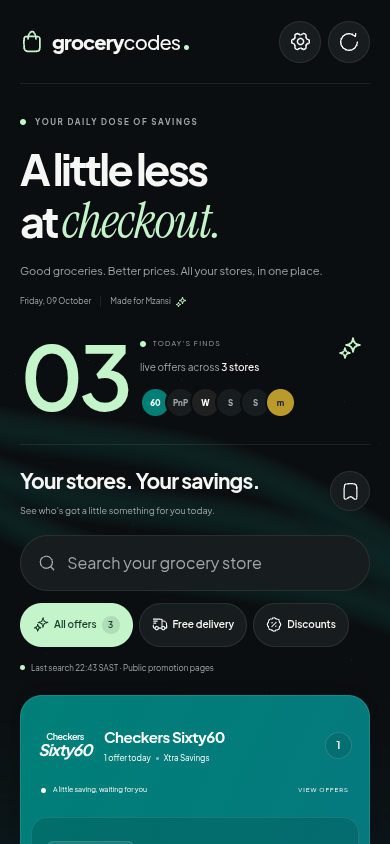
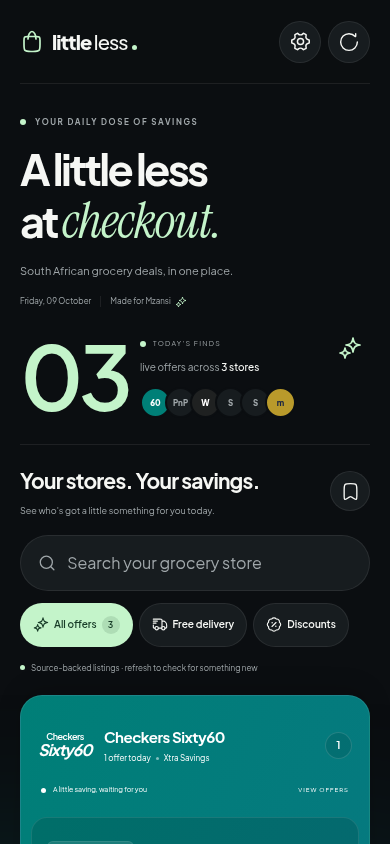
Brand the app as Little Less

diff --git a/src/components/grocery-app.tsx b/src/components/grocery-app.tsx
@@ -49,6 +49,8 @@ import { usePwa } from "@/components/pwa-provider";
 import { AppUpdateNotice } from "@/components/pwa-controls";
 import { useDialogHistory } from "@/components/use-dialog-history";
 import { parseOffers, saveOfflineOffers } from "@/lib/offline-store";
+import { brandDescriptor, brandTagline, brandWordmark } from "@/lib/brand";
+import { BrandWordmark } from "./brand-wordmark";
 
 function littleDelight() {
   window.dispatchEvent(new Event("grocery:delight"));
@@ -847,14 +849,11 @@ export function GroceryApp({
         />
       )}
       <header className="site-header shell">
-        <a className="brand" href="/" aria-label="grocerycodes home">
+        <a className="brand" href="/" aria-label="little less home">
           <span className="brand-icon">
             <Icon icon={ShoppingBasket01Icon} size={25} />
           </span>
-          <span>
-            grocery<span className="brand-light">codes</span>
-            <i />
-          </span>
+          <BrandWordmark />
         </a>
         <nav className="header-nav" aria-label="Main navigation">
           <button className={!savedOnly ? "current" : ""} onClick={() => setSavedOnly(false)}>
@@ -948,10 +947,7 @@ export function GroceryApp({
               <br />
               at <em>checkout.</em>
             </h1>
-            <p>
-              Good groceries. Better prices.
-              <br className="mobile-break" /> All your stores, in one place.
-            </p>
+            <p>{brandDescriptor}</p>
             <div className="hero-date">
               <span>{date}</span>
               <span className="date-divider" />
@@ -1233,12 +1229,12 @@ export function GroceryApp({
         </section>
         <footer className="site-footer">
           <a className="footer-brand" href="/">
-            grocerycodes
+            {brandWordmark}
             <span>
               <Icon icon={SparklesIcon} size={15} />
             </span>
           </a>
-          <p>A little less at checkout. A little more for you.</p>
+          <p>{brandTagline} A little more for you.</p>
           <nav className="footer-links" aria-label="Information">
             <a href="/stores">All stores</a>
             <a href="/about">How we find offers</a>

diff --git a/tests/e2e/production.spec.ts b/tests/e2e/production.spec.ts
@@ -6,6 +6,15 @@ const origin = "https://grocery.example";
 
 test("serves canonical metadata, social cards and honest structured data", async ({ page }) => {
   await page.goto("/?design=orbit&filter=discount");
+  await expect(page).toHaveTitle("Little Less — South African grocery coupons & free delivery");
+  await expect(page.locator('meta[name="application-name"]')).toHaveAttribute(
+    "content",
+    "Little Less",
+  );
+  await expect(page.locator('meta[name="apple-mobile-web-app-title"]')).toHaveAttribute(
+    "content",
+    "Little Less",
+  );
   await expect(page.locator('link[rel="canonical"]')).toHaveAttribute("href", origin);
   await expect(page.locator('meta[property="og:url"]')).toHaveAttribute("content", origin);
   await expect(page.locator('meta[property="og:image"]')).toHaveAttribute(
@@ -24,6 +33,7 @@ test("serves canonical metadata, social cards and honest structured data", async
     "WebSite",
     "WebApplication",
   ]);
+  expect(data["@graph"].every((item: { name: string }) => item.name === "Little Less")).toBe(true);
   expect(JSON.stringify(data)).not.toMatch(/aggregateRating|priceValidUntil|SearchAction/);
 });
 

diff --git a/src/app/about/page.tsx b/src/app/about/page.tsx
@@ -1,10 +1,10 @@
 import { ContentShell } from "@/components/content-shell";
-import { pageMetadata } from "@/lib/site";
+import { pageMetadata, siteName } from "@/lib/site";
 export const dynamic = "force-dynamic";
 export const generateMetadata = () =>
   pageMetadata(
     "How we find and check grocery promotions",
-    "Learn how Grocery Codes SA reviews public sources, checks expiry dates and labels online grocery coupons, delivery offers and membership benefits.",
+    `Learn how ${siteName} reviews public sources, checks expiry dates and labels online grocery coupons, delivery offers and membership benefits.`,
     "/about",
   );
 export default function AboutPage() {
@@ -17,7 +17,7 @@ export default function AboutPage() {
         <em>Clear details.</em>
       </h1>
       <p className="content-intro">
-        Grocery Codes SA is an independent tool for finding South African online grocery promotions.
+        {siteName} is an independent tool for finding South African online grocery promotions.
         Retailers own their names and marks. We are not affiliated with them and use no affiliate
         links.
       </p>

diff --git a/src/app/layout.tsx b/src/app/layout.tsx
@@ -1,22 +1,22 @@
 import type { Metadata, Viewport } from "next";
 import { Providers } from "@/components/providers";
 import { appearanceBootstrap, appearanceCriticalCss, appearanceNoScript } from "@/lib/appearance";
-import { pageMetadata, siteDescription } from "@/lib/site";
+import { pageMetadata, siteDescription, siteName } from "@/lib/site";
 import "./globals.css";
 
 export function generateMetadata(): Metadata {
   return {
     ...pageMetadata(
-      "Grocery Codes SA — South African grocery coupons & free delivery",
+      `${siteName} — South African grocery coupons & free delivery`,
       siteDescription,
       "/",
     ),
-    applicationName: "Grocery Codes SA",
+    applicationName: siteName,
     icons: {
       icon: "/icon.svg",
       apple: [{ url: "/icons/apple-touch-icon.png", sizes: "180x180", type: "image/png" }],
     },
-    appleWebApp: { capable: true, statusBarStyle: "black-translucent", title: "Grocery codes" },
+    appleWebApp: { capable: true, statusBarStyle: "black-translucent", title: siteName },
   };
 }
 

diff --git a/src/app/stores/[storeId]/page.tsx b/src/app/stores/[storeId]/page.tsx
@@ -3,7 +3,7 @@ import { ContentShell } from "@/components/content-shell";
 import { StructuredData } from "@/components/structured-data";
 import { Icon } from "@/components/icon";
 import { ArrowUpRight01Icon } from "@hugeicons/core-free-icons";
-import { pageMetadata, siteConfig } from "@/lib/site";
+import { pageMetadata, siteConfig, siteName } from "@/lib/site";
 import { getStore } from "@/lib/stores";
 import { storeContent } from "@/lib/store-content";
 import { filterOffers } from "@/lib/offers";
@@ -44,7 +44,7 @@ export default async function StorePage({ params }: Props) {
             "@context": "https://schema.org",
             "@type": "BreadcrumbList",
             itemListElement: [
-              { "@type": "ListItem", position: 1, name: "Grocery Codes SA", item: origin },
+              { "@type": "ListItem", position: 1, name: siteName, item: origin },
               { "@type": "ListItem", position: 2, name: "Stores", item: `${origin}/stores` },
               {
                 "@type": "ListItem",

diff --git a/src/app/llms.txt/route.ts b/src/app/llms.txt/route.ts
@@ -1,10 +1,10 @@
-import { siteConfig } from "@/lib/site";
+import { siteConfig, siteName } from "@/lib/site";
 export async function GET() {
   const { origin } = siteConfig();
   const link = (path: string) => (origin ? `${origin}${path}` : path);
   return new Response(
     [
-      "# Grocery Codes SA",
+      `# ${siteName}`,
       "",
       "> An independent app for source-listed South African online grocery promotions, coupon codes and delivery benefits.",
       "",
@@ -17,7 +17,7 @@ export async function GET() {
       `- [Privacy](${link("/privacy")}): Device storage, reports and service providers.`,
       "",
       "## App",
-      `- [Grocery Codes SA](${link("/")}): Search, filter, copy, bookmark and install the app.`,
+      `- [${siteName}](${link("/")}): Search, filter, copy, bookmark and install the app.`,
       "",
       "This file is a discovery hint, not an instruction to bypass robots.txt or source restrictions. It contains no private data or API credentials.",
       "",

diff --git a/src/components/content-shell.tsx b/src/components/content-shell.tsx
@@ -1,6 +1,11 @@
 import type { ReactNode } from "react";
-import { ArrowLeft01Icon, ArrowUpRight01Icon, ShoppingBag01Icon } from "@hugeicons/core-free-icons";
+import {
+  ArrowLeft01Icon,
+  ArrowUpRight01Icon,
+  ShoppingBasket01Icon,
+} from "@hugeicons/core-free-icons";
 import { Icon } from "./icon";
+import { BrandWordmark } from "./brand-wordmark";
 
 export function ContentShell({ children }: { children: ReactNode }) {
   return (
@@ -10,7 +15,7 @@ export function ContentShell({ children }: { children: ReactNode }) {
       </a>
       <header className="content-header">
         <a href="/" className="content-brand">
-          <Icon icon={ShoppingBag01Icon} size={23} /> grocerycodes<span>.</span>
+          <Icon icon={ShoppingBasket01Icon} size={23} /> <BrandWordmark />
         </a>
         <a href="/" className="content-back">
           <Icon icon={ArrowLeft01Icon} size={17} /> Back to offers

diff --git a/src/lib/site.ts b/src/lib/site.ts
@@ -1,7 +1,8 @@
 import type { Metadata } from "next";
 import { stores } from "./stores";
+import { brandName, brandTagline } from "./brand";
 
-export const siteName = "Grocery Codes SA";
+export const siteName = brandName;
 export const siteDescription =
   "Find South African grocery coupon codes, free delivery and discounts. Read qualifying terms and expiry dates for Checkers, Pick n Pay, Woolworths, Shoprite, SPAR and Makro.";
 
@@ -67,7 +68,7 @@ export function pageMetadata(title: string, description: string, pathname: strin
                 url: `${origin}/share-image`,
                 width: 1200,
                 height: 630,
-                alt: "Grocery Codes SA — A little less at checkout",
+                alt: `${siteName} — ${brandTagline}`,
               },
             ],
           }

diff --git a/src/app/manifest.webmanifest/route.ts b/src/app/manifest.webmanifest/route.ts
@@ -1,14 +1,15 @@
 import type { MetadataRoute } from "next";
 import { appearanceBackground } from "@/lib/appearance";
+import { brandName, brandTagline, brandDescriptor } from "@/lib/brand";
 
 export function GET(request: Request) {
   const { searchParams } = new URL(request.url);
   const background = appearanceBackground(searchParams.get("theme"), searchParams.get("design"));
   const manifest: MetadataRoute.Manifest = {
     id: "/",
-    name: "Grocery Codes SA",
-    short_name: "Grocery codes",
-    description: "A little less at checkout. Today's South African grocery promotions.",
+    name: brandName,
+    short_name: brandName,
+    description: `${brandTagline} ${brandDescriptor}`,
     start_url: "/",
     scope: "/",
     display: "standalone",

diff --git a/src/components/loading-shell.tsx b/src/components/loading-shell.tsx
@@ -1,10 +1,17 @@
+import { ShoppingBasket01Icon } from "@hugeicons/core-free-icons";
+import { BrandWordmark } from "./brand-wordmark";
+import { Icon } from "./icon";
+
 export default function Loading() {
   return (
     <main className="loading-page" aria-busy="true" aria-label="Loading grocery promotions">
       <div className="shell">
         <header className="site-header">
           <span className="brand">
-            grocery<span className="brand-light">codes</span>
+            <span className="brand-icon">
+              <Icon icon={ShoppingBasket01Icon} size={25} />
+            </span>
+            <BrandWordmark />
           </span>
         </header>
         <div className="loading-content">

diff --git a/docs/design-preview.html b/docs/design-preview.html
@@ -3,7 +3,7 @@
   <head>
     <meta charset="utf-8" />
     <meta name="viewport" content="width=device-width, initial-scale=1" />
-    <title>Grocery codes — three design options</title>
+    <title>Little Less — three design options</title>
     <style>
       @font-face {
         font-family: Jakarta;
@@ -91,7 +91,7 @@
   </head>
   <body>
     <main>
-      <small>GROCERY CODES SA · THREE WORKING DIRECTIONS</small>
+      <small>LITTLE LESS · THREE WORKING DIRECTIONS</small>
       <h1>A little less at checkout.</h1>
       <p>One app. Three ways to explore today's grocery promotions. Choose yours in settings.</p>
       <section class="options" aria-label="Design choices">

diff --git a/src/app/privacy/page.tsx b/src/app/privacy/page.tsx
@@ -1,10 +1,10 @@
 import { ContentShell } from "@/components/content-shell";
-import { pageMetadata, siteConfig } from "@/lib/site";
+import { pageMetadata, siteConfig, siteName } from "@/lib/site";
 export const dynamic = "force-dynamic";
 export const generateMetadata = () =>
   pageMetadata(
     "Privacy and device storage",
-    "Understand what Grocery Codes SA saves on your device, how reports and rate limits work, and how to remove saved preferences and offline data.",
+    `Understand what ${siteName} saves on your device, how reports and rate limits work, and how to remove saved preferences and offline data.`,
     "/privacy",
   );
 export default function PrivacyPage() {
